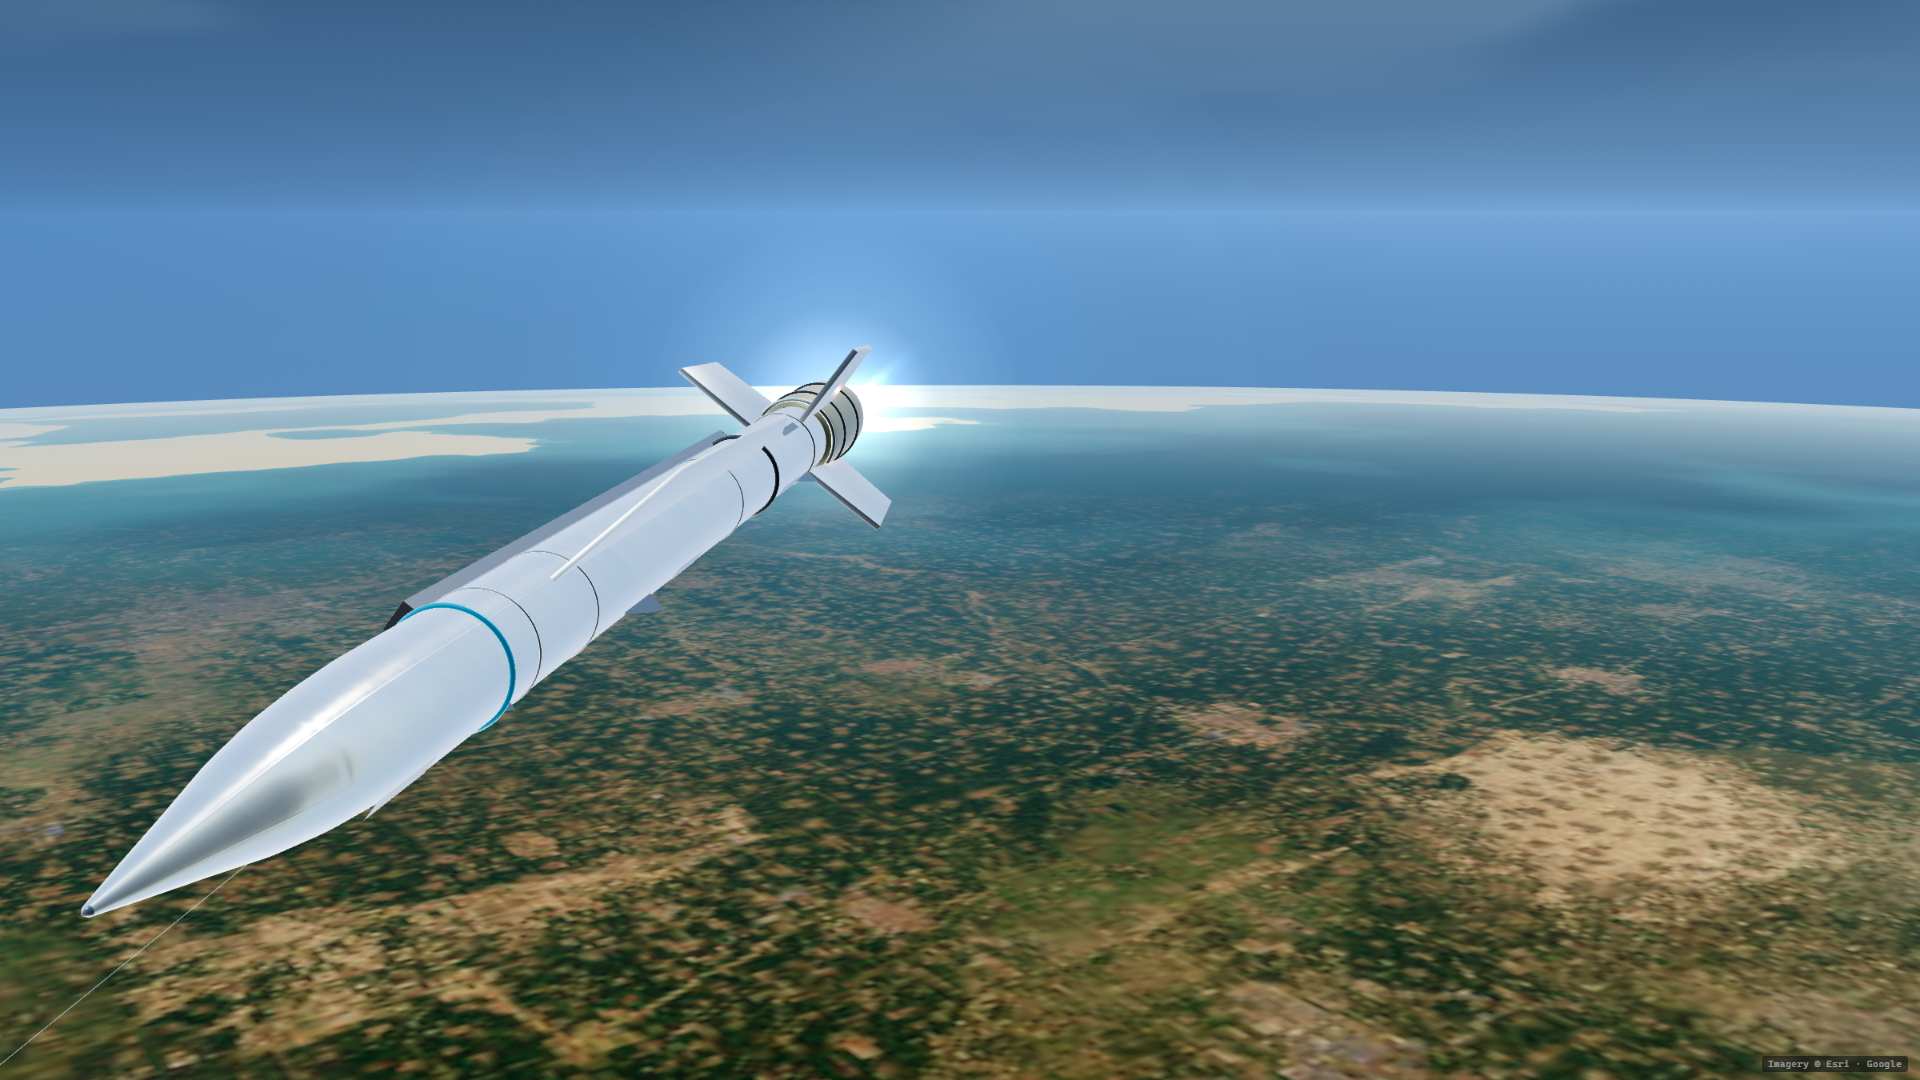
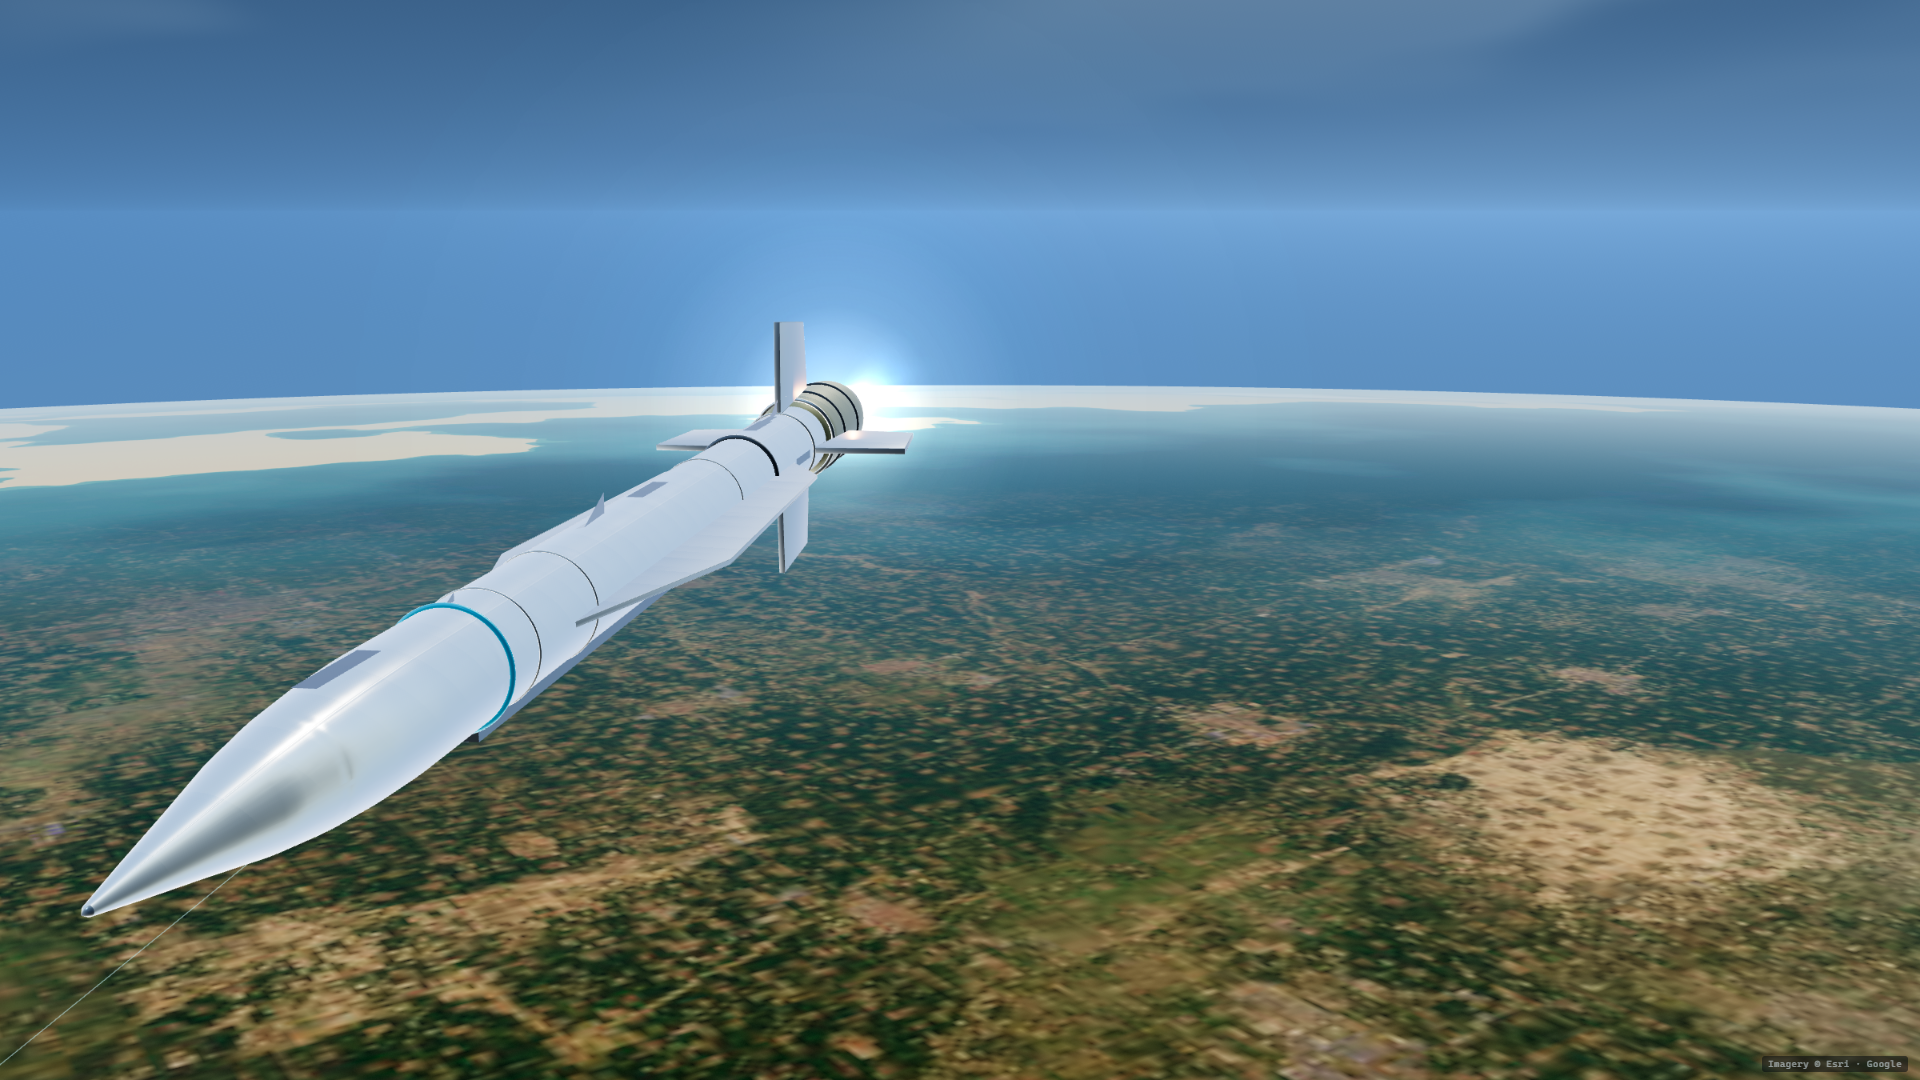
Fix the airframe axis convention so the strakes stay level in flight

diff --git a/interceptor-vision/src/scene/attitude.ts b/interceptor-vision/src/scene/attitude.ts
@@ -1,10 +1,19 @@
 import * as THREE from "three";
-import type { Quat } from "../data/telemetry";
+import type { Quat, Vec3 } from "../data/telemetry";
 
 /**
  * Recorded attitude is BODY -> ECEF. The scene lives in a local frame whose
  * x points east, y up and z south, so the quaternion is re-expressed as
  * BODY -> ENU -> scene. Shared by the interceptor and the target.
+ *
+ * The two vehicles do NOT share a body convention:
+ *  - the interceptor telemetry uses the standard body frame (x forward,
+ *    y right, z down), while
+ *  - the target attitude is derived from velocity by the data adapter with
+ *    z as the "up" reference (x forward, y left, z up).
+ * The exported GLB is x forward, y up, z right, so each needs its own fixed
+ * roll offset before the recorded quaternion can drive the model. Missing this
+ * is what made the strakes stand vertical in level flight.
  */
 const DEG = Math.PI / 180;
 const enu = new THREE.Matrix4();
@@ -17,7 +26,27 @@ const rot = new THREE.Matrix4();
 const body = new THREE.Matrix4();
 const bodyQuat = new THREE.Quaternion();
 
-export function attitudeToScene(attitude: Quat, latDeg: number, lonDeg: number, out: THREE.Quaternion) {
+/** NED body (y right, z down) -> glTF body (y up, z right). */
+const MODEL_TO_BODY_NED = new THREE.Matrix4().makeRotationX(-Math.PI / 2);
+/** z-up body (y left, z up) -> glTF body (y up, z right). */
+const MODEL_TO_BODY_ZUP = new THREE.Matrix4().makeRotationX(Math.PI / 2);
+
+export type AttitudeFrame = "ned" | "zup";
+
+const UP_AXIS = new THREE.Vector3(0, 1, 0);
+const ALT_UP = new THREE.Vector3(0, 0, 1);
+const tmpX = new THREE.Vector3();
+const tmpY = new THREE.Vector3();
+const tmpZ = new THREE.Vector3();
+const basis = new THREE.Matrix4();
+
+export function attitudeToScene(
+  attitude: Quat,
+  latDeg: number,
+  lonDeg: number,
+  out: THREE.Quaternion,
+  frame: AttitudeFrame = "ned",
+) {
   const lat = latDeg * DEG;
   const lon = lonDeg * DEG;
   const sl = Math.sin(lat), cl = Math.cos(lat);
@@ -29,7 +58,37 @@ export function attitudeToScene(attitude: Quat, latDeg: number, lonDeg: number, 
   );
   rot.copy(enu).transpose(); // ECEF -> ENU
   body.makeRotationFromQuaternion(bodyQuat.set(attitude.x, attitude.y, attitude.z, attitude.w));
-  rot.premultiply(sceneFromEnu).multiply(body);
+  rot
+    .premultiply(sceneFromEnu)
+    .multiply(body)
+    .multiply(frame === "ned" ? MODEL_TO_BODY_NED : MODEL_TO_BODY_ZUP);
   out.setFromRotationMatrix(rot);
+  return out;
+}
+
+/**
+ * Wings-level attitude with the body x axis along ``nose``. Used when the
+ * recorded roll channel is not usable (see `Sample.attitudeAliased`).
+ */
+export function levelFromNose(nose: THREE.Vector3, out: THREE.Quaternion) {
+  tmpX.copy(nose).normalize();
+  const ref = Math.abs(tmpX.dot(UP_AXIS)) > 0.97 ? ALT_UP : UP_AXIS;
+  tmpY.copy(ref).addScaledVector(tmpX, -ref.dot(tmpX)).normalize();
+  tmpZ.crossVectors(tmpX, tmpY);
+  basis.makeBasis(tmpX, tmpY, tmpZ);
+  out.setFromRotationMatrix(basis);
+  return out;
+}
+
+/** ECEF direction -> the scene frame (x east, y up, z south). */
+export function directionEcefToScene(v: Vec3, latDeg: number, lonDeg: number, out: THREE.Vector3) {
+  const lat = latDeg * DEG;
+  const lon = lonDeg * DEG;
+  const sl = Math.sin(lat), cl = Math.cos(lat);
+  const so = Math.sin(lon), co = Math.cos(lon);
+  const east = v.x * -so + v.y * co;
+  const north = v.x * -sl * co + v.y * -sl * so + v.z * cl;
+  const up = v.x * cl * co + v.y * cl * so + v.z * sl;
+  out.set(east, up, -north);
   return out;
 }

diff --git a/interceptor-vision/src/scene/Missile.tsx b/interceptor-vision/src/scene/Missile.tsx
@@ -4,7 +4,7 @@ import { Detailed, useGLTF } from "@react-three/drei";
 import * as THREE from "three";
 import { LIVERY, MISSILE_LODS } from "./assets";
 import { sampleAt } from "../data/telemetry";
-import { attitudeToScene } from "./attitude";
+import { attitudeToScene, levelFromNose } from "./attitude";
 import { dataClock } from "../data/dataClock";
 import { useApp } from "../state";
 
@@ -39,9 +39,16 @@ function tuneMaterials(root: THREE.Object3D, opts: { accent: string; paint: stri
           m.envMapIntensity = 1.15;
           break;
         case "MAT_Fin":
-          m.color.set(opts.paint).multiplyScalar(0.82);
-          m.roughness = 0.34;
-          m.envMapIntensity = 1.3;
+          // Slightly darker than the body so both strakes read as a pair even
+          // when one is washed out against the bright airframe.
+          m.color.set(opts.paint).multiplyScalar(0.66);
+          m.roughness = 0.38;
+          m.envMapIntensity = 1.15;
+          // The extruded strakes are single-surface plates and the mirrored one
+          // is wound the other way, so FrontSide culling erased it and the
+          // vehicle looked like it had a single wing. Draw both faces; three
+          // flips the normal for back faces of a DoubleSide material.
+          m.side = THREE.DoubleSide;
           if (phys.clearcoat !== undefined) {
             phys.clearcoat = 0.4;
             phys.clearcoatRoughness = 0.3;
@@ -221,6 +228,7 @@ export function Missile() {
   const [tiered, setTiered] = useState(false);
   const [warm, setWarm] = useState(false);
   const targetQuat = useMemo(() => new THREE.Quaternion(), []);
+  const nose = useMemo(() => new THREE.Vector3(), []);
 
   // Let the near LOD and the HDRI finish first, then upgrade to the full LOD
   // chain. The performance tier keeps the single near LOD on purpose.
@@ -237,6 +245,13 @@ export function Missile() {
     if (!sample) return;
     const k = 1 - Math.exp(-20 * Math.min(delta, 0.1));
     attitudeToScene(sample.attitude, sample.latDeg, sample.lonDeg, targetQuat);
+    if (sample.attitudeAliased) {
+      // The recording cadence cannot resolve the roll during the fast-roll
+      // windows; replaying it verbatim spins the wings like a blender. Keep the
+      // recorded nose and draw the airframe wings-level instead.
+      nose.set(1, 0, 0).applyQuaternion(targetQuat);
+      levelFromNose(nose, targetQuat);
+    }
     group.current.quaternion.slerp(targetQuat, k);
   });
 

diff --git a/interceptor-vision/src/scene/TargetTrack.tsx b/interceptor-vision/src/scene/TargetTrack.tsx
@@ -3,7 +3,7 @@ import { useFrame } from "@react-three/fiber";
 import * as THREE from "three";
 import { useApp } from "../state";
 import { dataClock, getTelemetry, sampleAt } from "../data/telemetry";
-import { attitudeToScene } from "./attitude";
+import { directionEcefToScene, levelFromNose } from "./attitude";
 import { sampleTarget, targetLocalAt } from "./intercept";
 
 /**
@@ -148,6 +148,7 @@ export function TargetTrack() {
   );
 
   const targetQuat = useMemo(() => new THREE.Quaternion(), []);
+  const nose = useMemo(() => new THREE.Vector3(), []);
   const local = useMemo(() => new THREE.Vector3(), []);
 
   useFrame(() => {
@@ -161,10 +162,15 @@ export function TargetTrack() {
 
     objects.vehicle.position.copy(local);
     const target = sampleTarget(tel.targetSamples, dataClock.t);
-    const cur = sampleAt(dataClock.t);
-    if (target && cur) {
-      attitudeToScene(target.attitude, target.latDeg, target.lonDeg, targetQuat);
-      objects.vehicle.quaternion.copy(targetQuat);
+    if (target) {
+      // The payload's target attitude is derived from its velocity with an
+      // Earth-fixed "up" reference, which leaves the wings tilted. Rebuild it
+      // from the recorded velocity so the aircraft flies wings-level.
+      directionEcefToScene(target.velocity, target.latDeg, target.lonDeg, nose);
+      if (nose.lengthSq() > 1) {
+        levelFromNose(nose, targetQuat);
+        objects.vehicle.quaternion.copy(targetQuat);
+      }
     }
 
     objects.spriteObj.position.copy(local);
@@ -180,7 +186,7 @@ export function TargetTrack() {
     // swallow the whole frame. The airframe itself is already in close-up.
     const camMode = useApp.getState().cameraMode;
     objects.spriteObj.visible = camMode !== "target" && spriteMat.opacity > 0.02;
-    spriteMat.color.set(cur?.seekerLock ? 0xffc46a : 0x9ff3ff);
+    spriteMat.color.set(sampleAt(dataClock.t)?.seekerLock ? 0xffc46a : 0x9ff3ff);
 
     const pos = objects.geo.getAttribute("position") as THREE.BufferAttribute;
     pos.setXYZ(0, 0, 0, 0);

diff --git a/interceptor-vision/src/components/MethodsOverlay.tsx b/interceptor-vision/src/components/MethodsOverlay.tsx
@@ -178,9 +178,18 @@ export function MethodsOverlay() {
               positioning.
             </li>
             <li>
-              Airframe attitude is the recorded BODY→ECEF quaternion re-expressed in that local frame. Both the
-              interceptor model (Blender, referenced to public SM-3 Block IB/IIA views) and the 4.2 m target vehicle
-              (procedural) are illustrative shapes sized to the telemetry, not accurate hardware representations.
+              Airframe attitude is the recorded BODY→ECEF quaternion re-expressed in that local frame. The BODY axes
+              follow the source schema (x forward, y right, z down) and are mapped onto the y-up glTF model with a
+              fixed −90° roll offset; without it the strakes render vertical. Both the interceptor model (Blender,
+              referenced to public SM-3 Block IB/IIA views) and the 7 m target vehicle (procedural) are illustrative
+              shapes sized to the telemetry, not accurate hardware representations.
+            </li>
+            <li>
+              The source samples the attitude every 0.45 s. In the fast-roll segments the roll advances more than
+              30° between records (up to ~180°), so it cannot be reconstructed. The viewer keeps the recorded nose
+              direction and draws the airframe wings-level in those windows; the roll is replayed verbatim where the
+              cadence can resolve it. The target aircraft is drawn wings-level from its recorded velocity, because its
+              payload attitude uses an Earth-fixed up reference rather than the local horizon.
             </li>
             <li>
               Satellite ground imagery is streamed as Web-Mercator tiles (Esri World Imagery by default, Google as a

diff --git a/interceptor-vision/src/data/telemetry.ts b/interceptor-vision/src/data/telemetry.ts
@@ -52,6 +52,12 @@ export interface Sample {
   handover: boolean;
   finDeflectionsRad?: FinDeflections;
   bodyRatesRadS?: BodyRates;
+  /**
+   * True when the roll between the neighbouring records is larger than the
+   * 0.45 s cadence can resolve, i.e. the recorded roll channel is aliased.
+   * The nose direction stays valid; only the roll about it is unusable.
+   */
+  attitudeAliased?: boolean;
 }
 
 export interface FlightEvent {
@@ -106,6 +112,12 @@ export function sampleAt(time: number): Sample | null {
   const span = b.t - a.t || 1;
   const k = Math.max(0, Math.min(1, (t - a.t) / span));
   const lerp = (x: number, y: number) => x + (y - x) * k;
+  const qa = a.attitude;
+  const qb = b.attitude;
+  const qdot = Math.abs(qa.w * qb.w + qa.x * qb.x + qa.y * qb.y + qa.z * qb.z);
+  // 30 deg between neighbouring records: real manoeuvres stay well under this,
+  // the fast-roll windows alias far above it.
+  const attitudeAliased = 2 * Math.acos(Math.min(1, qdot)) > (30 * Math.PI) / 180;
   return {
     ...a,
     t,
@@ -120,6 +132,7 @@ export function sampleAt(time: number): Sample | null {
       z: lerp(a.velocity.z, b.velocity.z),
     },
     attitude: slerp(a.attitude, b.attitude, k),
+    attitudeAliased,
     latDeg: lerp(a.latDeg, b.latDeg),
     lonDeg: lerp(a.lonDeg, b.lonDeg),
     altM: lerp(a.altM, b.altM),

diff --git a/interceptor-vision/README.md b/interceptor-vision/README.md
@@ -10,10 +10,10 @@
 
 ## 功能
 
-- **实景巡航视景**：Blender 重建的 SM-3 拦截弹，背景为按遥测经纬度实时流式加载的卫星影像（Esri 为主、Google 兜底），地面随飞行滚动；地表球体按记录高度上下移动（T+0 贴地、顶点 29.9 km），弹体姿态由 BODY→ECEF 四元数换算到本地 ENU 后驱动，抬头/压平都是真实数据；支持拖拽旋转、滚轮缩放、双击复位。
+- **实景巡航视景**：Blender 重建的 SM-3 拦截弹，背景为按遥测经纬度实时流式加载的卫星影像（Esri 为主、Google 兜底），地面随飞行滚动；地表球体按记录高度上下移动（T+0 贴地、顶点 29.9 km），弹体姿态由 BODY→ECEF 四元数换算到本地 ENU 后驱动（源弹体系 x 前 / y 右 / z 下，套用 y 向上的 glTF 模型时补 −90° 滚转，平飞时升力面保持水平），抬头/压平都是真实数据；支持拖拽旋转、滚轮缩放、双击复位。
 - **双渲染模式**：Three.js 实时交互 + Blender Cycles/EEVEE 离线静帧与飞行动画（网页内画廊展示）。
 - **弹道叠层**：完整飞行弹道以屏幕等宽光带绘制（空中轨迹 + 地面投影 + 流动光点 + 发射/最高点/拦截标记），逐帧按当前经纬度重建，随飞行贴合地球曲率；地面投影落在真实地表高度；左侧“叠层”可开关。
-- **拦截几何**：目标按 `targetSamples` 建模为 7 m 级飞行器（机身/主翼/尾翼/发亮头部），按遥测姿态定向；远处用恒定屏幕尺寸的传感器跟踪框（锁定后转琥珀色，过地平线仍可见），近处淡出让位给实体；同时绘制弹目视线（LOS）。右侧面板新增导引头离轴角，图表新增对应曲线。
+- **拦截几何**：目标按 `targetSamples` 建模为 7 m 级飞行器（机身/主翼/尾翼/发亮头部），机头沿记录速度、机翼对当地水平定向；远处用恒定屏幕尺寸的传感器跟踪框（锁定后转琥珀色，过地平线仍可见），近处淡出让位给实体；同时绘制弹目视线（LOS）。右侧面板新增导引头离轴角，图表新增对应曲线。
 - **任务与遥测回放**：载入原平台的 1504 帧验证遥测，左侧任务事件（发射/最高点/锁定/交接/拦截，可点击跳转），右侧实时高度、速度、马赫、动压、过载、斜距、质量与舵偏；底部飞行时间轴支持播放/暂停、拖动与 1×/5×/20×/60× 倍速。
 - **遥测图表**：9 组曲线（高度、速度、马赫、动压、过载、斜距、导引头离轴角、四路舵偏、三轴角速率），带时间轴刻度，可一键导出 1504 行 CSV，点击图表可跳转时间，Esc 关闭。
 - **方法与数据**：顶栏 ⓘ 打开数据溯源面板——源仓库/commit/sha256、6-DoF 引擎与 10 ms 采样、11 项校验结果、可复现性与散布配置、观测量定义，以及本地 ENU 投影、抛物线下沉、影像来源等近似说明与免责声明；可复制当前时刻深链（`?t=&view=`）。

diff --git a/interceptor-vision/docs/QA.md b/interceptor-vision/docs/QA.md
@@ -170,6 +170,17 @@
 
 实测：三档 60.0 / 60.0 / 46.6–60.1 FPS，控制台 0 报错；昼/昏/夜 × 宏/中/微 9 张基准图已刷新；微观 hero 图中机身漆面反射、青色识别带、暖冷双色尾焰均清晰可辨。
 
+## 第 17 轮：机翼姿态坐标系与滚转可用性
+
+问题（用户反馈）：翼的位置看起来不对，平飞时没有升力。
+
+- **根因一：机体坐标系差了 90° 滚转。** 源遥测的 BODY 系是标准弹体系（x 前、y 右、z 下），而 GLB 是 glTF 的 y 向上（x 前、y 上、z 右）。查看器把记录四元数直接套到 y 向上的模型上，等于把弹体绕自身纵轴多转了 90°：平飞时两侧升力面变成竖直面，看起来只剩一片“立着的翼”，也因此“没有升力”。现在在 BODY→ECEF→ENU→场景 的链路末端加入固定 −90° 滚转（`MODEL_TO_BODY_NED`），平飞时升力面回到水平。
+- **根因二：目标姿态的基准不同。** 目标实体的姿态由数据适配器按“速度方向 + 地轴 up”推导，up 基准是地球自转轴而非当地水平，机翼会随纬度倾斜。目标改为用记录速度换算到场景系后重建“机头沿速度、机翼水平”的姿态（`directionEcefToScene` + `levelFromNose`）。
+- **根因三：快速滚转段采样混叠。** 姿态记录间隔 0.45 s，部分区间相邻两帧滚转 80–180°（滚转率约 5–8 rad/s），按原样回放会像搅拌机一样翻滚，且角速度通道在这段符号乱跳（混叠）。新增 `Sample.attitudeAliased`：相邻记录夹角 >30° 时判定滚转不可重建，保留记录的机头指向、按“机翼水平”绘制；可解析的区间仍逐帧回放真实滚转。方法面板已披露该处理。
+- **顺带**：`MAT_Fin` 设为双面，修复另一侧升力面因绕序相反被背面剔除、看起来只有一片翼的问题；机翼颜色相对弹体加深一档，便于分辨。
+
+数值核验（模型 up 轴与场景 +Y 的点积）：T+60/200/300/380/600/672 s 均 ≥0.995（水平）；T+650 s 为 0.261，对应该时刻遥测里真实的约 74° 滚转；T+0 为 0（弹体竖直，翼面法向水平），符合预期。三档 60 FPS，控制台 0 报错。
+
 ## 第 13 轮：移动端布局与观感打磨
 
 用真实鼠标与 390×844 手机视口逐项操作后修复：

diff --git a/interceptor-vision/docs/PERFORMANCE.md b/interceptor-vision/docs/PERFORMANCE.md
@@ -14,7 +14,7 @@
 | --- | --- | --- |
 | Performance | 60.0 FPS | DPR 自适应上限 1.0，关闭阴影，单层云，无后期 |
 | Balanced | 60.0 FPS | DPR 自适应上限 1.25，1024 阴影，单层云，原生 MSAA，无后期 |
-| Cinematic | 46.6–60.1 FPS | DPR 自适应上限 1.25，2048 阴影，一层淡云，暗角 + Bloom（随负载波动） |
+| Cinematic | 46.6–60.1 FPS | DPR 自适应上限 1.25，2048 阴影，一层淡云，暗角 + Bloom（随负载波动，最新一轮 51.9） |
 
 1080p 下 Cinematic 的 1.5 倍像素比会把集显压到约 38 FPS（Bloom 链 + 全屏填充），而肉眼收益有限，因此上限收到 1.25；需要时自适应分辨率还会继续降到 0.7。
 
